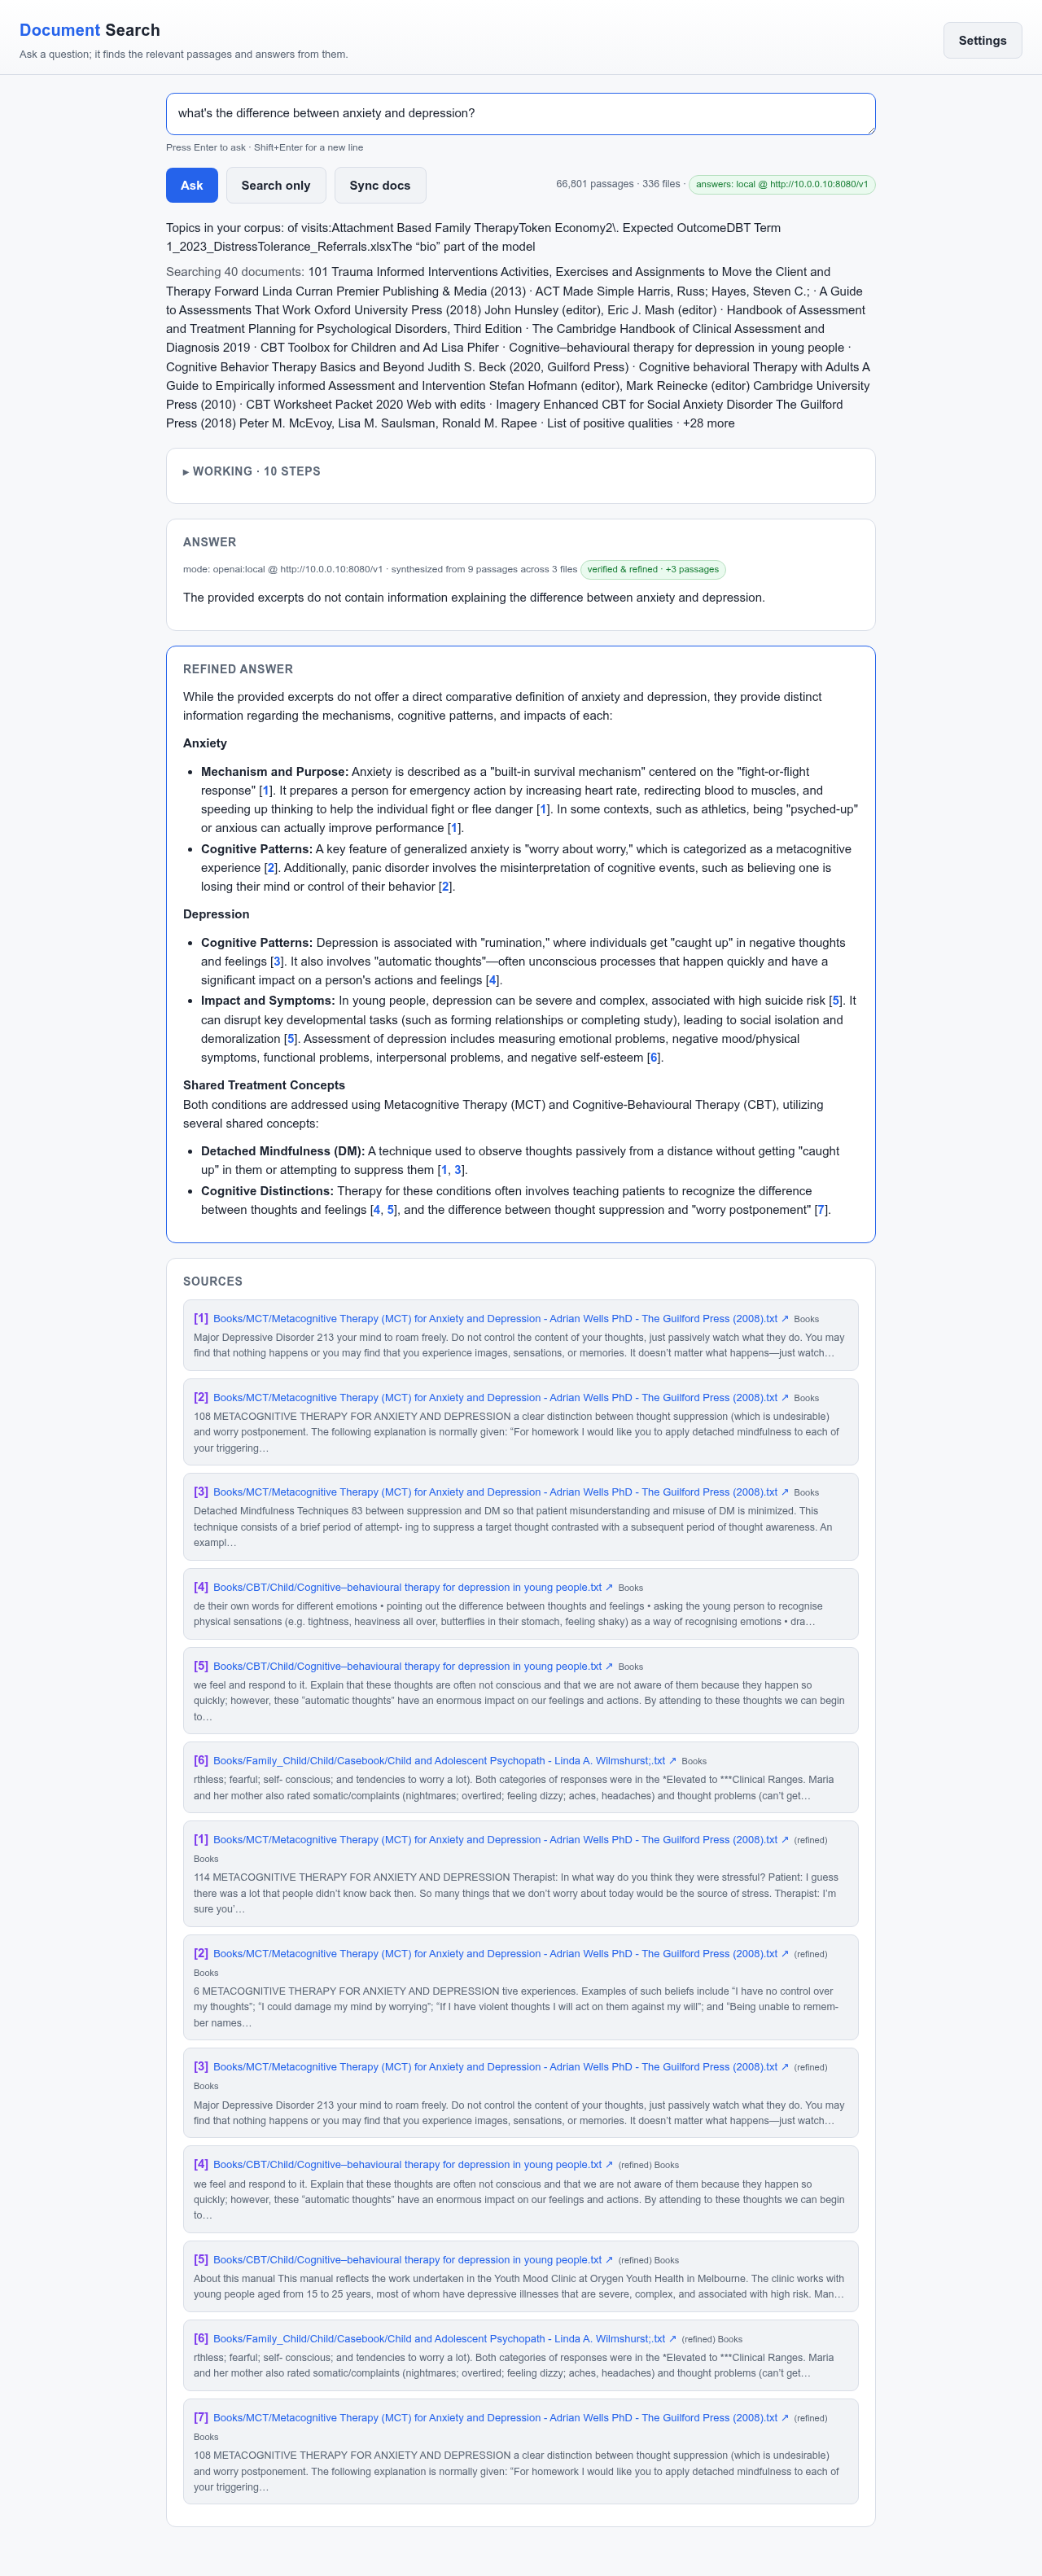
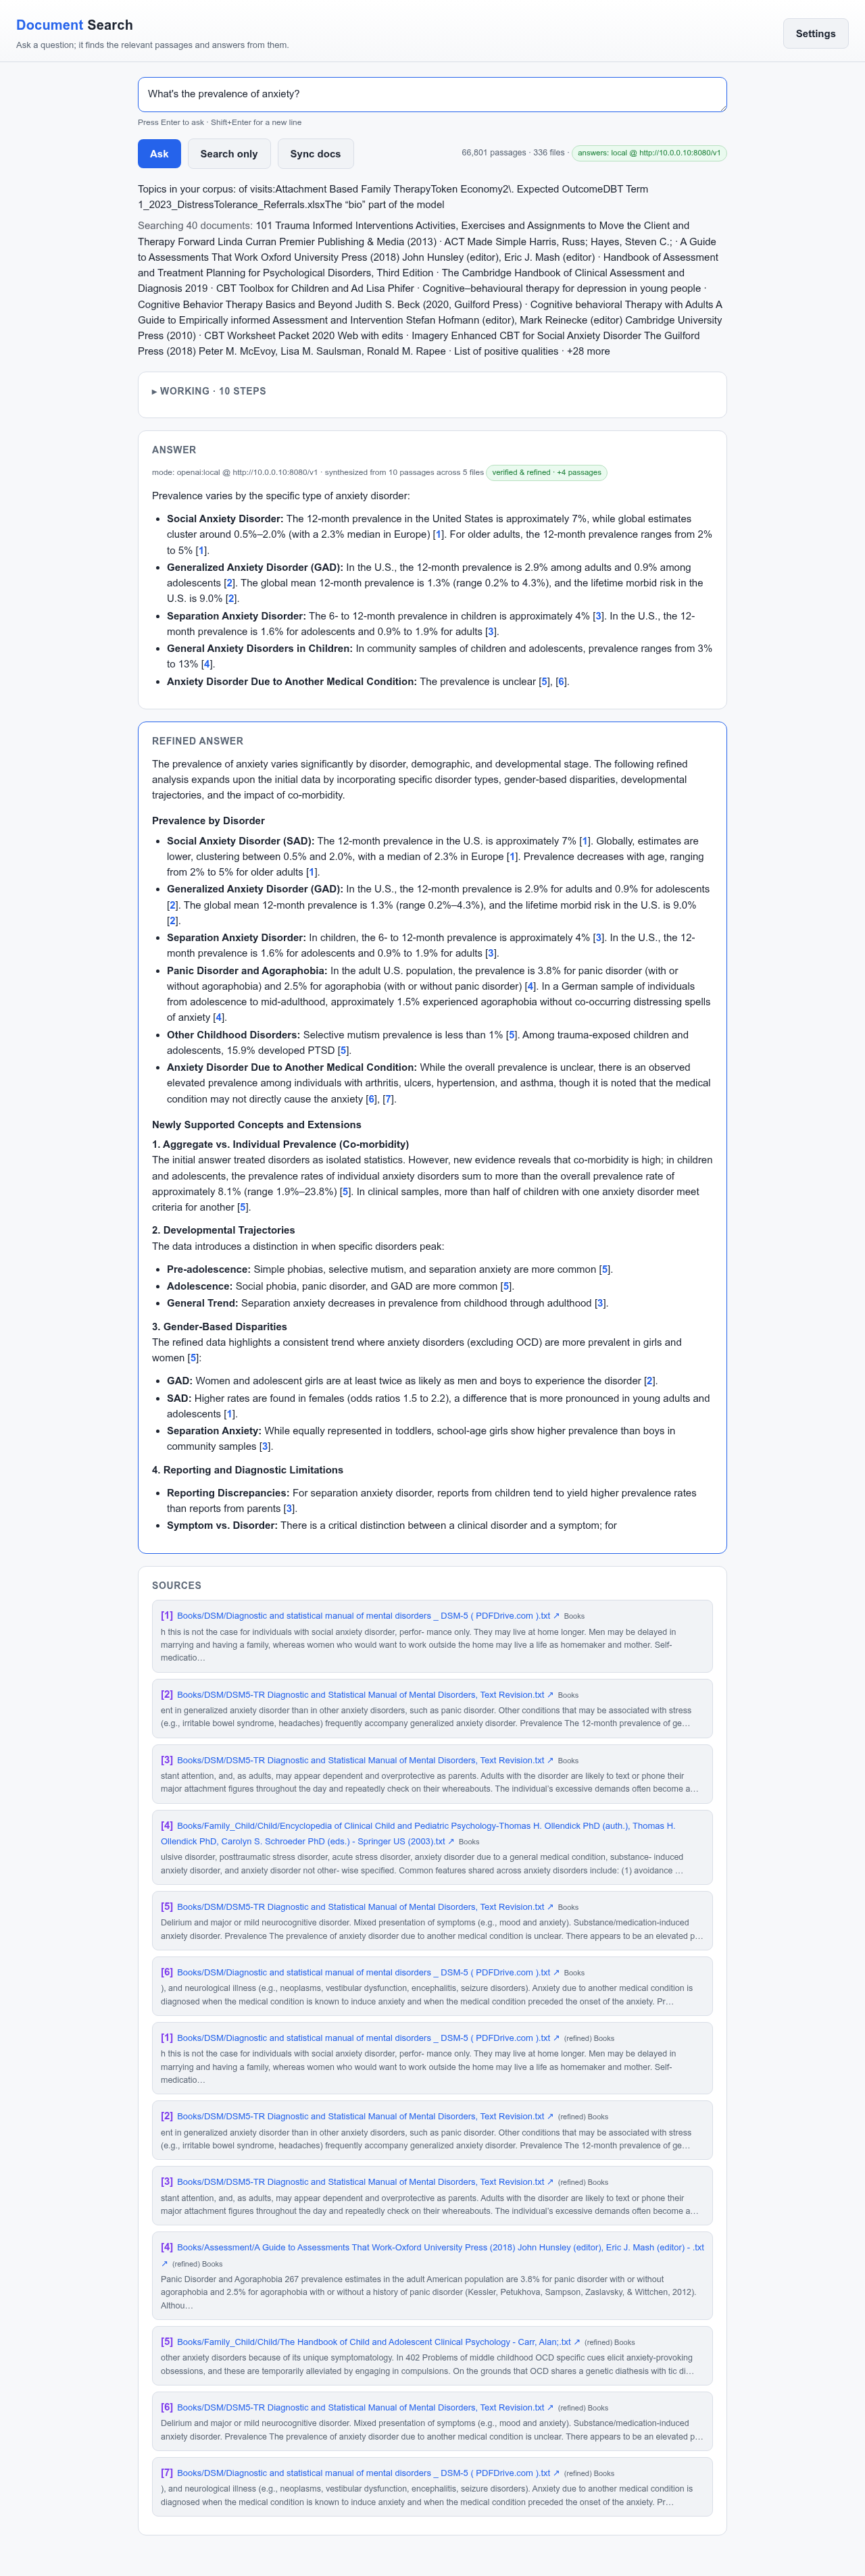
Add demo screenshot

Changed region(s): [[0.0312, 0.0, 0.8438, 0.9912], [0.9375, 0.0, 0.9688, 0.031]]

diff --git a/README.md b/README.md
@@ -2,7 +2,10 @@
 
 Mini RAG is a lightweight Retrieval-Augmented Generation system that converts a variety of documents (PDFs, Word, etc.) into a searchable text corpus. It allows you to ask questions and receive grounded, synthesized answers with citations, using adaptive refinement for complex queries.
 
+![Demo](assets/demo_screenshot.png)
+
 ## Quick Start
+
 
 1. **Add your documents**: 
    Drop your PDFs, ebooks, specs, or notes into the `input/` folder.